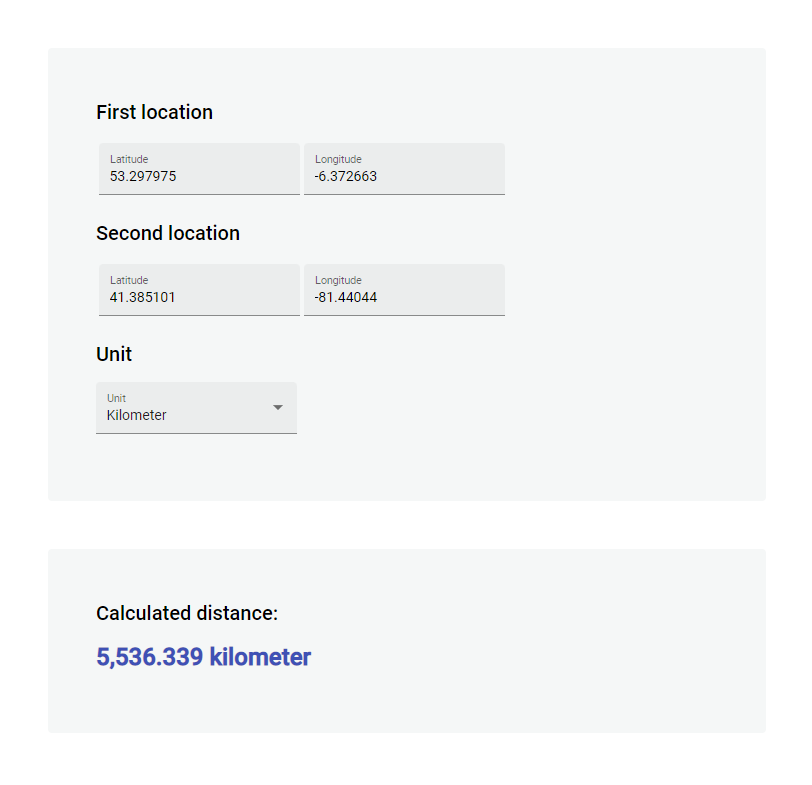
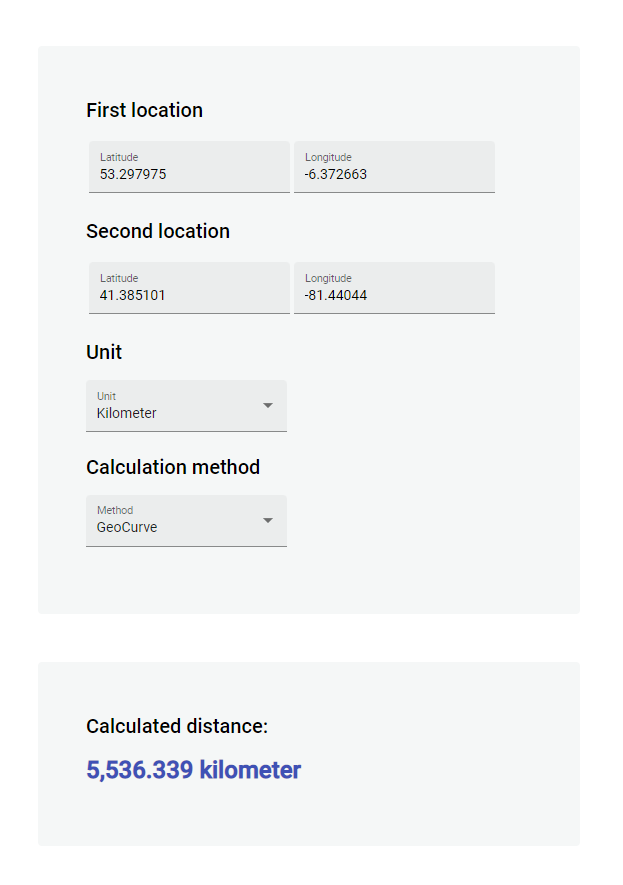
Implement multiple calculation methods (#4)
* Create expectations tests for new calculation methods

* Rename service to calculator

* Implement pythagoras calculation method

* Implement three-dimension point calculation method

* Register all calculation methods

* Add strategy for distance calculation

* Use calculation method by client app

* Update README.md with progress

* Update image

* Fix linting

diff --git a/src/ClientApp/src/app/geo-distance-calculate/geo-distance-calculate.component.ts b/src/ClientApp/src/app/geo-distance-calculate/geo-distance-calculate.component.ts
@@ -6,6 +6,7 @@ import { HttpRequestState } from '../common/http-request-state';
 import { CalculateGeoDistanceRequest } from '../models/calculate-geo-distance-request';
 import { CalculateGeoDistanceResponse } from '../models/calculate-geo-distance-response';
 import { DistanceUnit } from '../models/distance-unit.enum';
+import { GeoDistanceCalculationMethod } from '../models/geo-distance-calculation-method.enum';
 import { GeoDistanceClientService } from '../services/geo-distance-client.service';
 
 @Component({
@@ -15,10 +16,12 @@ import { GeoDistanceClientService } from '../services/geo-distance-client.servic
 })
 export class GeoDistanceCalculateComponent implements OnInit {
 
+    public DistanceUnit = DistanceUnit;
+    public GeoDistanceCalculationMethod = GeoDistanceCalculationMethod;
+
     public geoDistanceForm: FormGroup;
     public distance$: Observable<HttpRequestState<CalculateGeoDistanceResponse>>;
     public isLoading$ = new BehaviorSubject<boolean>(false);
-    public DistanceUnit = DistanceUnit;
 
     constructor(
         private client: GeoDistanceClientService
@@ -31,7 +34,8 @@ export class GeoDistanceCalculateComponent implements OnInit {
             locationALongitude: new FormControl(-6.372663, [Validators.required, Validators.pattern(/^\-?\d+(\.\d+)?$/)]),
             locationBLatitude: new FormControl(41.385101, [Validators.required, Validators.pattern(/^\-?\d+(\.\d+)?$/)]),
             locationBLongitude: new FormControl(-81.440440, [Validators.required, Validators.pattern(/^\-?\d+(\.\d+)?$/)]),
-            unit: new FormControl(DistanceUnit[DistanceUnit.Kilometer], [Validators.required])
+            unit: new FormControl(DistanceUnit[DistanceUnit.Kilometer], [Validators.required]),
+            method: new FormControl(GeoDistanceCalculationMethod[GeoDistanceCalculationMethod.GeoCurve], [Validators.required]),
         });
 
         this.distance$ = this.geoDistanceForm.valueChanges.pipe(
@@ -56,6 +60,7 @@ export class GeoDistanceCalculateComponent implements OnInit {
         request.locationBLatitude = parseFloat(formValues.locationBLatitude);
         request.locationBLongitude = parseFloat(formValues.locationBLongitude);
         request.unit = formValues.unit;
+        request.method = formValues.method;
 
         return request;
     }

diff --git a/src/ClientApp/src/app/geo-distance-calculate/geo-distance-calculate.component.html b/src/ClientApp/src/app/geo-distance-calculate/geo-distance-calculate.component.html
@@ -73,6 +73,18 @@
                 </mat-option>
             </mat-select>
         </mat-form-field>
+        
+        <p class="mat-h2">Calculation method</p>
+
+        <mat-form-field appearance="fill">
+            <mat-label>Method</mat-label>
+
+            <mat-select formControlName="method">
+                <mat-option *ngFor="let method of GeoDistanceCalculationMethod | enumToArray" [value]="method">
+                    {{ method }}
+                </mat-option>
+            </mat-select>
+        </mat-form-field>
     </form>
 
     <div class="geo-distance-content-box">

diff --git a/src/ClientApp/src/app/models/calculate-geo-distance-request.ts b/src/ClientApp/src/app/models/calculate-geo-distance-request.ts
@@ -1,4 +1,5 @@
 import { DistanceUnit } from './distance-unit.enum';
+import { GeoDistanceCalculationMethod } from './geo-distance-calculation-method.enum';
 
 export class CalculateGeoDistanceRequest {
 
@@ -7,4 +8,5 @@ export class CalculateGeoDistanceRequest {
     locationBLatitude: number;
     locationBLongitude: number;
     unit: DistanceUnit;
+    method: GeoDistanceCalculationMethod;
 }

diff --git a/src/ClientApp/src/app/models/calculate-geo-distance-response.ts b/src/ClientApp/src/app/models/calculate-geo-distance-response.ts
@@ -1,7 +1,9 @@
 import { DistanceUnit } from './distance-unit.enum';
+import { GeoDistanceCalculationMethod } from './geo-distance-calculation-method.enum';
 
 export class CalculateGeoDistanceResponse {
 
     value: number;
     unit: DistanceUnit;
+    method: GeoDistanceCalculationMethod;
 }

diff --git a/src/ClientApp/src/app/models/geo-distance-calculation-method.enum.ts b/src/ClientApp/src/app/models/geo-distance-calculation-method.enum.ts
@@ -1,0 +1,5 @@
+export enum GeoDistanceCalculationMethod {
+    GeoCurve,
+    Pythagoras,
+    ThreeDimensionPoint
+}

diff --git a/src/Application/Endpoints/GeoDistance/CalculateGeoDistanceEndpoint.cs b/src/Application/Endpoints/GeoDistance/CalculateGeoDistanceEndpoint.cs
@@ -15,27 +15,29 @@ public class CalculateGeoDistanceRequest
     public double LocationBLatitude { get; set; }
     public double LocationBLongitude { get; set; }
     public DistanceUnit Unit { get; set; }
+    public GeoDistanceCalculationMethod Method { get; set; }
 }
 
 public class CalculateGeoDistanceResponse
 {
     public double Value { get; set; }
     public DistanceUnit Unit { get; set; }
+    public GeoDistanceCalculationMethod Method { get; set; }
 }
 
 public class CalculateGeoDistanceEndpoint : EndpointBaseAsync
     .WithRequest<CalculateGeoDistanceRequest>
     .WithResult<CalculateGeoDistanceResponse>
 {
-    private readonly IGeoDistanceService _geoDistanceService;
+    private readonly IGeoDistanceCalculationStrategy _distanceCalculationStrategy;
     private readonly IDistanceConversionService _distanceConversionService;
 
     public CalculateGeoDistanceEndpoint(
-        IGeoDistanceService geoDistanceService,
+        IGeoDistanceCalculationStrategy distanceCalculationStrategy,
         IDistanceConversionService distanceConversionService
     )
     {
-        _geoDistanceService = geoDistanceService;
+        _distanceCalculationStrategy = distanceCalculationStrategy;
         _distanceConversionService = distanceConversionService;
     }
 
@@ -60,14 +62,15 @@ public class CalculateGeoDistanceEndpoint : EndpointBaseAsync
             Longitude = Longitude.From(request.LocationBLongitude)
         };
         
-        var distance = await _geoDistanceService.CalculateDistanceAsync(locationA, locationB);
-
+        var distance = await _distanceCalculationStrategy.CalculateDistanceAsync(locationA, locationB, request.Method);
+        
         var convertedDistance = _distanceConversionService.Convert(distance, request.Unit);
-
+        
         var response = new CalculateGeoDistanceResponse
         {
             Unit = convertedDistance.Unit,
-            Value = convertedDistance.Value
+            Value = convertedDistance.Value,
+            Method = request.Method,
         };
         
         return response;

diff --git a/tests/Infrastructure.Tests.Unit/Services/GeoDistanceCalculation/GeoCurveDistanceCalculatorTests.cs b/tests/Infrastructure.Tests.Unit/Services/GeoDistanceCalculation/GeoCurveDistanceCalculatorTests.cs
@@ -2,18 +2,18 @@
 using Domain.Entities;
 using Domain.ValueObjects;
 using FluentAssertions;
-using Infrastructure.Services;
+using Infrastructure.Services.GeoDistanceCalculation;
 using Xunit;
 
-namespace Infrastructure.Tests.Unit.Services;
+namespace Infrastructure.Tests.Unit.Services.GeoDistanceCalculation;
 
-public class GeoCurveDistanceServiceTests : IClassFixture<GeoCurveDistanceService>
+public class GeoCurveDistanceCalculatorTests : IClassFixture<GeoCurveDistanceCalculator>
 {
-    private readonly GeoCurveDistanceService _geoCurveDistanceService;
+    private readonly GeoCurveDistanceCalculator _distanceCalculator;
 
-    public GeoCurveDistanceServiceTests(GeoCurveDistanceService geoCurveDistanceService)
+    public GeoCurveDistanceCalculatorTests(GeoCurveDistanceCalculator distanceCalculator)
     {
-        _geoCurveDistanceService = geoCurveDistanceService;
+        _distanceCalculator = distanceCalculator;
     }
     
     [Fact]
@@ -31,7 +31,7 @@ public class GeoCurveDistanceServiceTests : IClassFixture<GeoCurveDistanceServic
             Longitude = Longitude.From(-81.440440)
         };
 
-        var distance = await _geoCurveDistanceService.CalculateDistanceAsync(locationA, locationB);
+        var distance = await _distanceCalculator.CalculateDistanceAsync(locationA, locationB);
 
         distance.Value.Should().BeApproximately(5536, 1);
     }

diff --git a/src/Infrastructure/Services/GeoDistanceCalculation/ThreeDimensionPointDistanceCalculator.cs b/src/Infrastructure/Services/GeoDistanceCalculation/ThreeDimensionPointDistanceCalculator.cs
@@ -1,0 +1,37 @@
+using System.Numerics;
+using Application.Common.Interfaces;
+using Domain.Constants;
+using Domain.Entities;
+using Domain.Enums;
+
+namespace Infrastructure.Services.GeoDistanceCalculation;
+
+public class ThreeDimensionPointDistanceCalculator : IGeoDistanceCalculator
+{
+    public GeoDistanceCalculationMethod Method => GeoDistanceCalculationMethod.ThreeDimensionPoint;
+    
+    public async Task<Distance> CalculateDistanceAsync(GeoLocation locationA, GeoLocation locationB)
+    {
+        var aVector = CalculatePositionVector(locationA);
+        var bVector = CalculatePositionVector(locationB);
+
+        var delta = aVector - bVector;
+        var distanceValue = GeoConstants.EarthRadius * Math.Sqrt(delta.X * delta.X + delta.Y * delta.Y + delta.Z * delta.Z);
+
+        var distance = Distance.From(distanceValue, DistanceUnit.Kilometer);
+
+        return await Task.FromResult(distance);
+    }
+
+
+    private Vector3 CalculatePositionVector(GeoLocation location)
+    {
+        var vector = new Vector3();
+
+        vector.X = (float) (Math.Sin(location.Latitude.Value) * Math.Cos(location.Longitude.Value));
+        vector.Y = (float) (Math.Sin(location.Latitude.Value) * Math.Sin(location.Longitude.Value));
+        vector.Z = (float) (Math.Cos(location.Latitude.Value));
+
+        return vector;
+    }
+}

diff --git a/tests/Infrastructure.Tests.Unit/Services/GeoDistanceCalculation/ThreeDimensionPointDistanceCalculatorTests.cs b/tests/Infrastructure.Tests.Unit/Services/GeoDistanceCalculation/ThreeDimensionPointDistanceCalculatorTests.cs
@@ -1,0 +1,38 @@
+using System.Threading.Tasks;
+using Domain.Entities;
+using Domain.ValueObjects;
+using FluentAssertions;
+using Infrastructure.Services.GeoDistanceCalculation;
+using Xunit;
+
+namespace Infrastructure.Tests.Unit.Services.GeoDistanceCalculation;
+
+public class ThreeDimensionPointDistanceCalculatorTests : IClassFixture<ThreeDimensionPointDistanceCalculator>
+{
+    private readonly ThreeDimensionPointDistanceCalculator _distanceCalculator;
+
+    public ThreeDimensionPointDistanceCalculatorTests(ThreeDimensionPointDistanceCalculator distanceCalculator)
+    {
+        _distanceCalculator = distanceCalculator;
+    }
+    
+    [Fact]
+    public async Task ShouldCalculateApproximatelyValidDistance()
+    {
+        var locationA = new GeoLocation
+        {
+            Latitude = Latitude.From(53.297975),
+            Longitude = Longitude.From(-6.372663)
+        };
+
+        var locationB = new GeoLocation
+        {
+            Latitude = Latitude.From(41.385101),
+            Longitude = Longitude.From(-81.440440)
+        };
+
+        var distance = await _distanceCalculator.CalculateDistanceAsync(locationA, locationB);
+
+        distance.Value.Should().BeApproximately(5536, 1500);
+    }
+}

diff --git a/src/Infrastructure/Services/GeoDistanceCalculation/PythagorasDistanceCalculator.cs b/src/Infrastructure/Services/GeoDistanceCalculation/PythagorasDistanceCalculator.cs
@@ -1,0 +1,32 @@
+using Application.Common.Interfaces;
+using Domain.Constants;
+using Domain.Entities;
+using Domain.Enums;
+
+namespace Infrastructure.Services.GeoDistanceCalculation;
+
+public class PythagorasDistanceCalculator : IGeoDistanceCalculator
+{
+    public GeoDistanceCalculationMethod Method => GeoDistanceCalculationMethod.Pythagoras;
+    
+    public async Task<Distance> CalculateDistanceAsync(GeoLocation locationA, GeoLocation locationB)
+    {
+        var eastWestDelta = DegreesToRadians(locationB.Longitude.Value - locationA.Longitude.Value) * Math.Cos(DegreesToRadians(locationA.Latitude.Value));
+        var northSouthDelta = DegreesToRadians(90 - locationB.Latitude.Value) - DegreesToRadians(90 - locationA.Latitude.Value);
+
+        var distanceValue = Math.Sqrt(eastWestDelta * eastWestDelta + northSouthDelta * northSouthDelta) * GeoConstants.EarthRadius;
+        
+        var distance = new Distance
+        {
+            Unit = DistanceUnit.Kilometer,
+            Value = distanceValue
+        };
+        
+        return await Task.FromResult(distance);
+    }
+
+    private double DegreesToRadians(double degrees)
+    {
+        return degrees * (Math.PI / 180);
+    }
+}

diff --git a/tests/Infrastructure.Tests.Unit/Services/GeoDistanceCalculation/PythagorasDistanceCalculatorTests.cs b/tests/Infrastructure.Tests.Unit/Services/GeoDistanceCalculation/PythagorasDistanceCalculatorTests.cs
@@ -1,0 +1,38 @@
+using System.Threading.Tasks;
+using Domain.Entities;
+using Domain.ValueObjects;
+using FluentAssertions;
+using Infrastructure.Services.GeoDistanceCalculation;
+using Xunit;
+
+namespace Infrastructure.Tests.Unit.Services.GeoDistanceCalculation;
+
+public class PythagorasDistanceCalculatorTests : IClassFixture<PythagorasDistanceCalculator>
+{
+    private readonly PythagorasDistanceCalculator _distanceCalculator;
+
+    public PythagorasDistanceCalculatorTests(PythagorasDistanceCalculator distanceCalculator)
+    {
+        _distanceCalculator = distanceCalculator;
+    }
+    
+    [Fact]
+    public async Task ShouldCalculateApproximatelyValidDistance()
+    {
+        var locationA = new GeoLocation
+        {
+            Latitude = Latitude.From(53.297975),
+            Longitude = Longitude.From(-6.372663)
+        };
+
+        var locationB = new GeoLocation
+        {
+            Latitude = Latitude.From(41.385101),
+            Longitude = Longitude.From(-81.440440)
+        };
+
+        var distance = await _distanceCalculator.CalculateDistanceAsync(locationA, locationB);
+
+        distance.Value.Should().BeApproximately(5536, 400);
+    }
+}

diff --git a/src/Infrastructure/DependencyInjection.cs b/src/Infrastructure/DependencyInjection.cs
@@ -1,6 +1,7 @@
 using System.Reflection;
 using Application.Common.Interfaces;
 using Infrastructure.Services;
+using Infrastructure.Services.GeoDistanceCalculation;
 using Microsoft.Extensions.DependencyInjection;
 
 namespace Infrastructure;
@@ -11,8 +12,11 @@ public static class DependencyInjection
     {
         services.AddAutoMapper(Assembly.GetExecutingAssembly());
         
-        services.AddTransient<IGeoDistanceService, GeoCurveDistanceService>();
+        services.AddTransient<IGeoDistanceCalculator, GeoCurveDistanceCalculator>();
+        services.AddTransient<IGeoDistanceCalculator, PythagorasDistanceCalculator>();
+        services.AddTransient<IGeoDistanceCalculator, ThreeDimensionPointDistanceCalculator>();
         services.AddTransient<IDistanceConversionService, DistanceConversionService>();
+        services.AddTransient<IGeoDistanceCalculationStrategy, GeoDistanceCalculationStrategy>();
 
         return services;
     }
